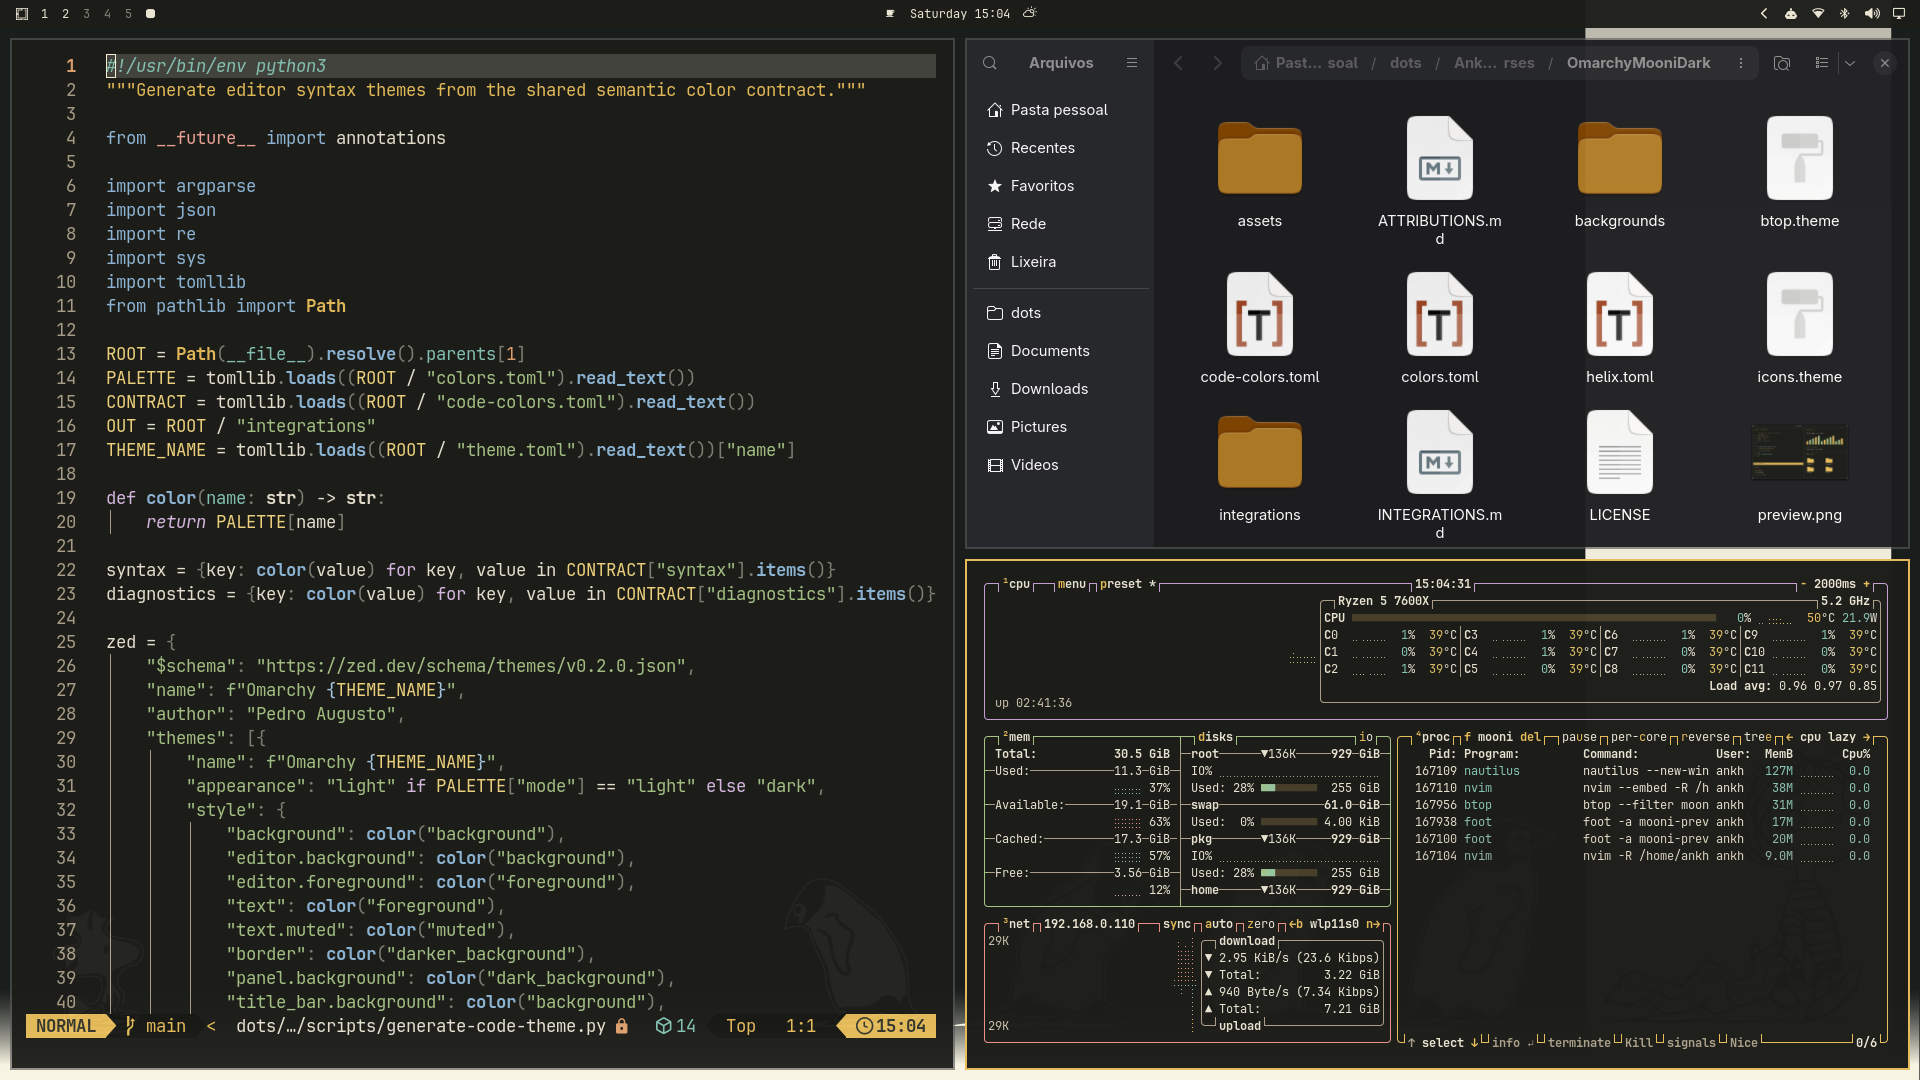
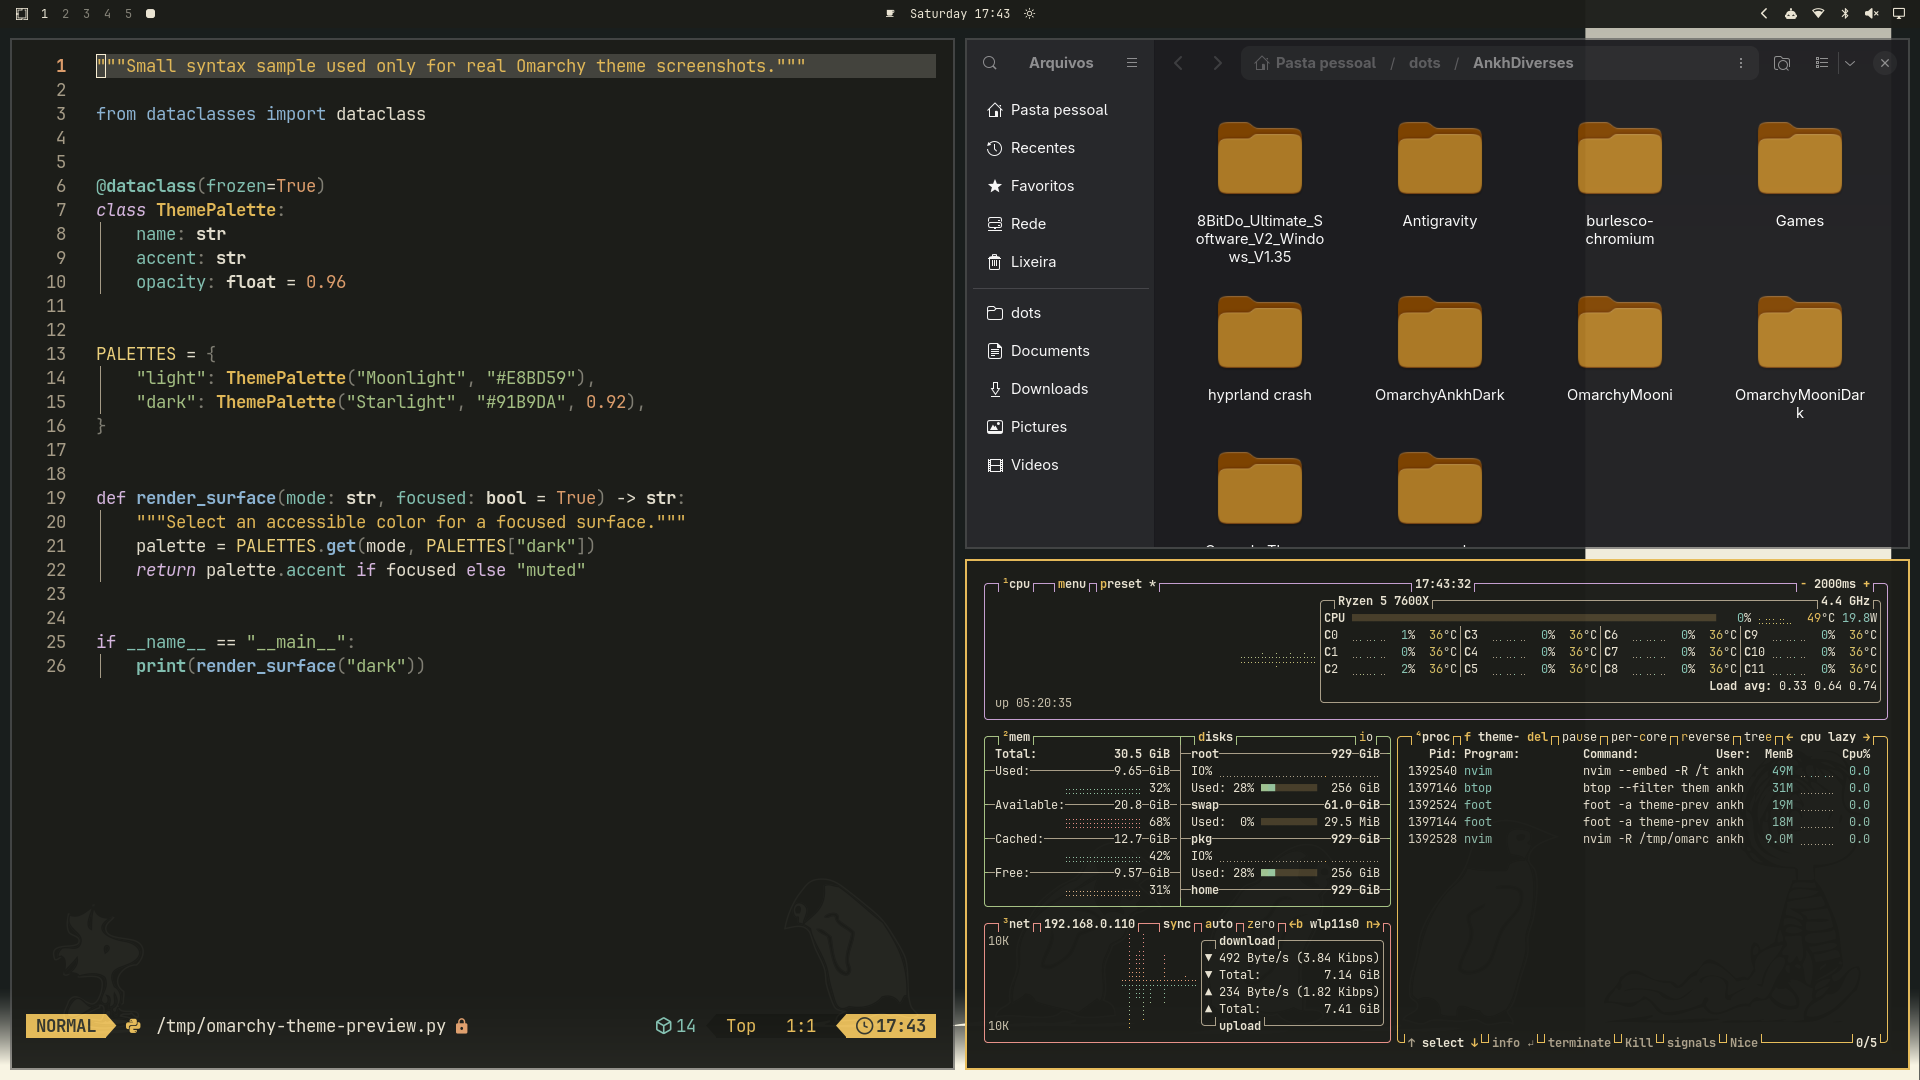
Replace previews with real Omarchy captures

diff --git a/scripts/validate-theme.py b/scripts/validate-theme.py
@@ -15,6 +15,7 @@ REQUIRED = {
     "ATTRIBUTIONS.md",
     "INTEGRATIONS.md",
     "LICENSE",
+    "PREVIEWS.md",
     "README.md",
     "btop.theme",
     "colors.toml",

diff --git a/PREVIEWS.md b/PREVIEWS.md
@@ -1,0 +1,18 @@
+# Proveniência das prévias
+
+As duas prévias foram capturadas em 19 de setembro de 2026 com este tema
+realmente aplicado no Omarchy Quattro. Não são imagens geradas por IA,
+recolorizações nem capturas emprestadas de temas oficiais.
+
+- `preview.png`: sessão real com a barra do Omarchy, Neovim, Files e btop.
+- `preview-unlock.png`: tela real aberta pelo modo seguro
+  `omarchy-shell lock preview`, sem bloquear a sessão.
+
+Os quatro temas da coleção usam o mesmo código de exemplo, layout de janelas e
+procedimento de captura para permitir comparação direta. Transparência,
+wallpaper, bordas, ícones e cores visíveis vêm do tema ativo.
+
+O seletor de temas do Omarchy lê `preview.png` diretamente da raiz deste
+repositório. Portanto, a imagem exibida no GitHub e no sistema é o mesmo
+arquivo. `preview-unlock.png` documenta o bloqueio da sessão; `unlock.png`
+pertence à interface separada do Plymouth.

diff --git a/ATTRIBUTIONS.md b/ATTRIBUTIONS.md
@@ -14,6 +14,7 @@ A logo vetorial vem de /usr/share/omarchy/logo.svg, do projeto Omarchy.
 O wallpaper com a logo e o símbolo lunar foram compostos para este tema. A logo
 mantém a geometria original, sem contorno ou sombra. `preview.png` e
 `preview-unlock.png` são capturas reais do tema aplicado no Omarchy; não contêm
-assets adicionais além dos já descritos aqui.
+assets adicionais além dos já descritos aqui e não foram geradas por IA,
+recoloridas ou emprestadas de outro tema. Veja [PREVIEWS.md](PREVIEWS.md).
 
 Base de código: Omarchy Mooni, do mesmo autor, sob MIT.
